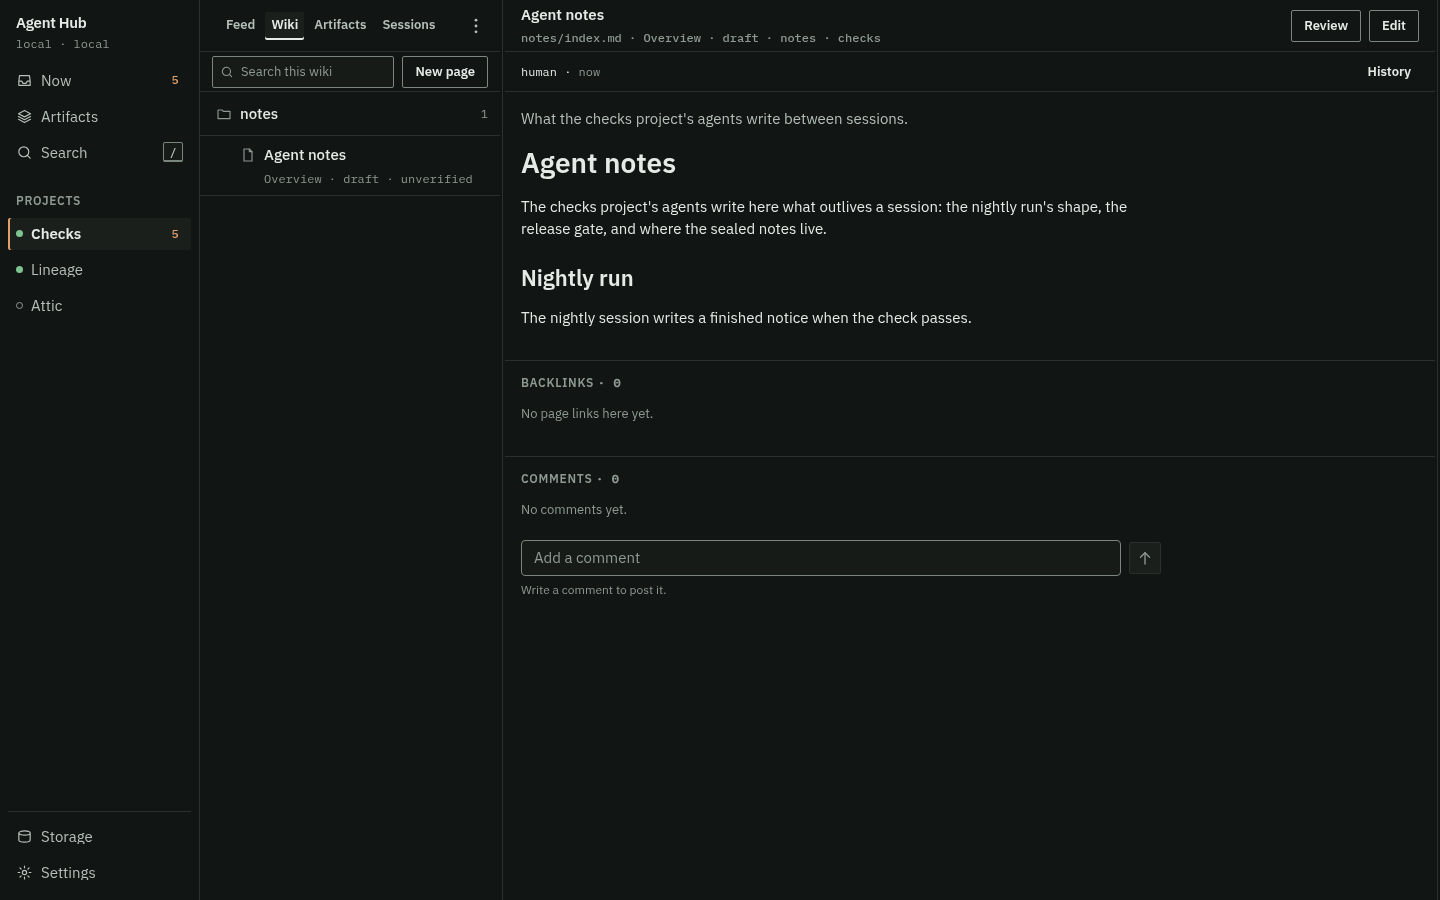
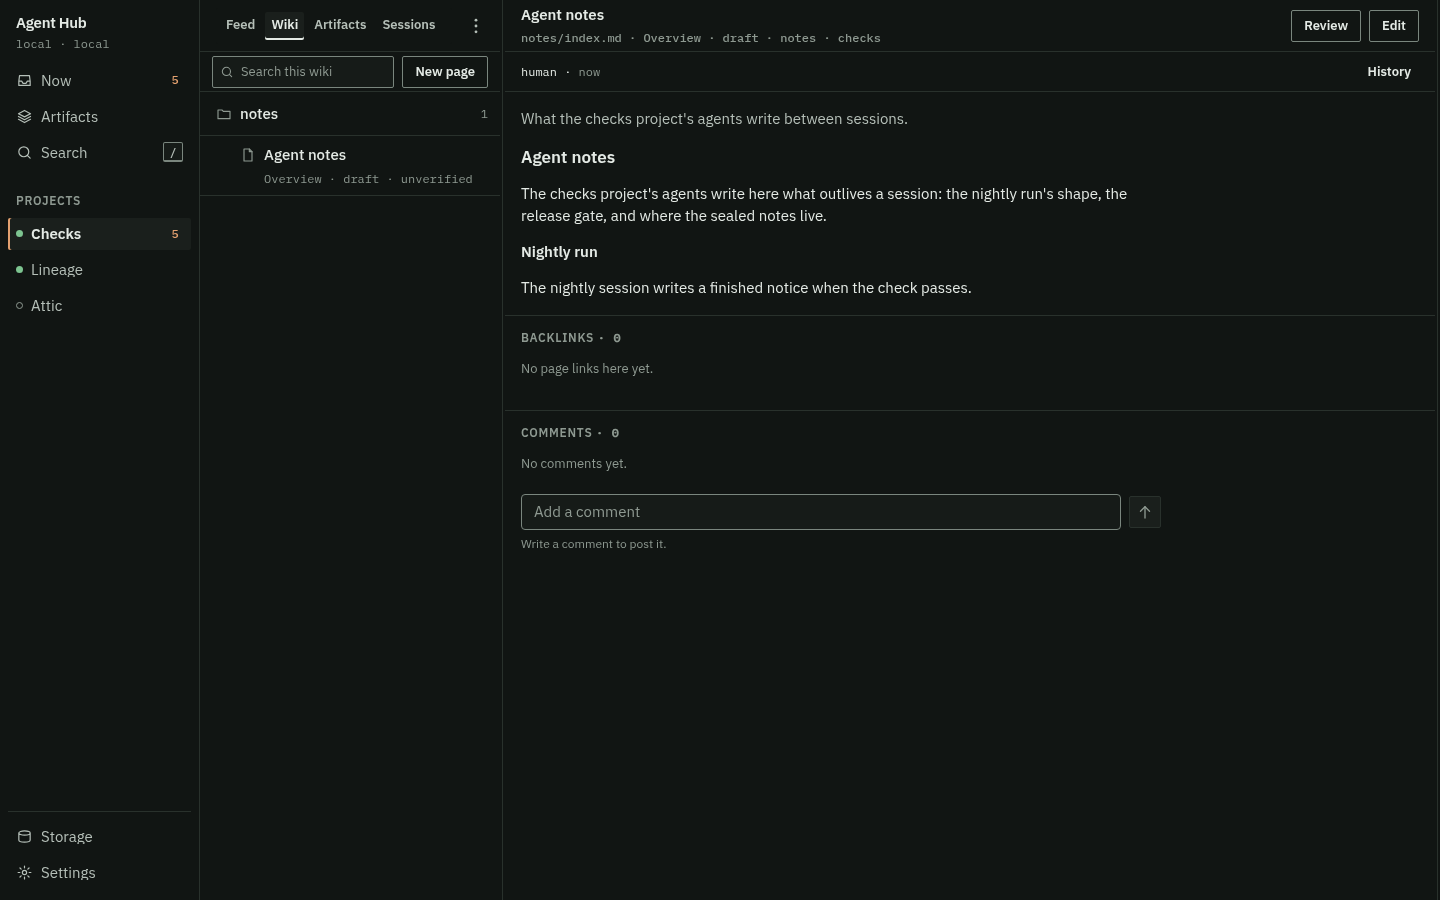
fix(web): style rendered markdown in the wiki, items and comments
A wiki page was rendered without the markdown body class, so fenced
code and wide tables ran off a phone. The shared body rules also lacked
blockquote, rule, nested-list and task-list styling and drew h3 to h6
under body size, and artifact comment cards collapsed paragraph breaks.

The sanitiser stripped task boxes, so it now keeps a disabled checkbox
with only its type, checked and disabled attributes. It also had a hole:
children of an unknown tag were moved up into the parent without being
sanitised, so markdown such as an image with an event handler wrapped
in an unknown tag kept that handler in the hub's page. The children are
now sanitised before they move, with unit tests for the nested cases.

Changed region(s): [[0.3438, 0.1556, 0.7812, 0.6222], [0.375, 0.6533, 0.4062, 0.6844]]

diff --git a/web/app.css b/web/app.css
@@ -79,16 +79,25 @@ main { flex: 1; width: 100%; min-width: 0; margin: 0; padding: var(--s-4) var(--
 .markdown-body h3,
 .markdown-body h4,
 .markdown-body h5,
-.markdown-body h6 { font-size: var(--t-13); }
+.markdown-body h6 { font-size: var(--t-15); }
+.markdown-body { overflow-wrap: anywhere; }
+.markdown-body blockquote { margin: var(--s-3) 0; padding: 0 0 0 var(--s-3); border-left: 3px solid var(--ink-2); color: var(--ink-2); }
+.markdown-body hr { border: 0; border-top: 1px solid var(--line-strong); margin: var(--s-4) 0; }
+.markdown-body li > ul,
+.markdown-body li > ol { margin: 0; }
+.markdown-body li:has(> input[type="checkbox"], > p:first-child > input[type="checkbox"]) { list-style: none; position: relative; }
+.markdown-body li > input[type="checkbox"],
+.markdown-body li > p:first-child > input[type="checkbox"] { position: absolute; left: calc(-1 * var(--s-4)); top: 0.3em; width: 1em; height: 1em; min-height: 0; margin: 0; padding: 0; }
 .markdown-body pre { margin: var(--s-3) 0; padding: var(--s-3); overflow-x: auto; background: var(--surface-2); border: 1px solid var(--line); border-radius: var(--r-1); font-family: var(--font-mono); font-size: var(--t-13); line-height: 1.5; }
 .markdown-body pre code { font: inherit; }
 .markdown-body table { display: block; max-width: 100%; overflow-x: auto; border-collapse: collapse; }
 .markdown-body th,
 .markdown-body td { min-width: 120px; padding: var(--s-2) var(--s-3); border-bottom: 1px solid var(--line); text-align: left; vertical-align: top; overflow-wrap: break-word; }
 .markdown-body th { color: var(--ink); font-weight: 600; white-space: nowrap; border-top: 1px solid var(--line); }
+.markdown-body :is(th, td):has(p) { min-width: 320px; }
 .markdown-body th:first-child,
 .markdown-body td:first-child { position: sticky; left: 0; z-index: 1; background: var(--bg); }
-.markdown-body :not(pre) > code { font-family: var(--font-mono); font-size: var(--t-13); background: var(--surface-2); border-radius: var(--r-1); padding: 1px var(--s-1); }
+.markdown-body :not(pre) > code { font-family: var(--font-mono); font-size: var(--t-13); background: var(--surface-2); border: 1px solid var(--line); border-radius: var(--r-1); padding: 1px var(--s-1); overflow-wrap: anywhere; }
 /* end component: markdown body */
 /* The foundation's scale, top to bottom: 28 page title, 22 section, 17 item
    title, 15 row title and body, 13 meta, 12 uppercase section label and mono
@@ -4998,6 +5007,7 @@ a.session-back {
 }
 
 .hub-card-body {
+  white-space: pre-wrap;
   margin: 0;
   font-size: var(--t-13);
   line-height: 1.5;
@@ -5252,6 +5262,7 @@ a.session-back {
 }
 
 .hub-thread-body {
+  white-space: pre-wrap;
   margin: 0;
   font-size: var(--t-15);
   line-height: 1.55;
@@ -5314,6 +5325,7 @@ a.session-back {
 }
 
 .hub-list-body {
+  white-space: pre-wrap;
   margin: 0;
   font-size: var(--t-15);
   line-height: 1.5;
